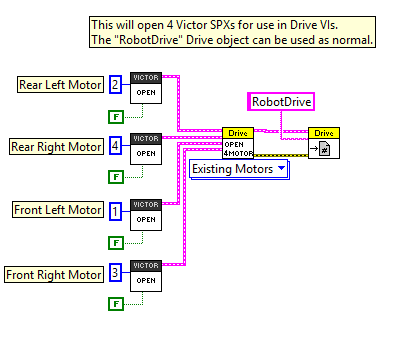
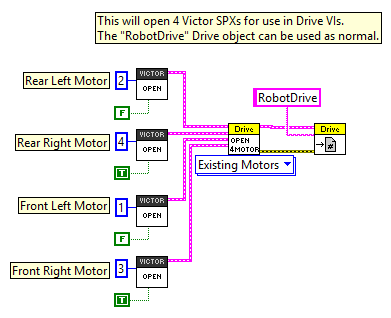
Fixed title image.  New open4motors image.

Changed region(s): [[0.0, 0.1981, 0.89, 0.9623], [0.2148, 0.0283, 0.9821, 0.1698]]

diff --git a/README.md b/README.md
@@ -1,5 +1,5 @@
 # Phoenix Framework
-![Title](images/title.png)
+![Title](images/General-Title.png)
 
 
 The software framework for all CTR-Electronics robot components.
